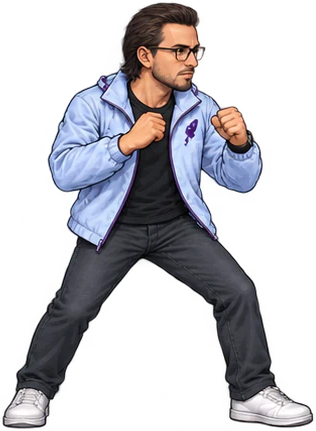
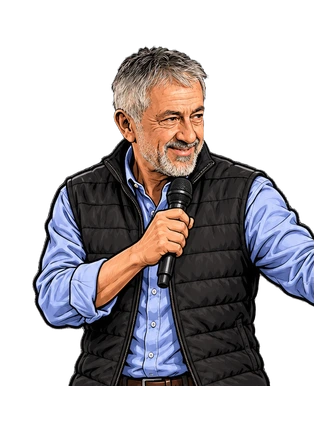
feat(fighters): reemplazar Vicente Zavarce por Armandito con imagen de busto y tecnicas riojanas

diff --git a/shared/finales.ts b/shared/finales.ts
@@ -93,11 +93,11 @@ const entries: readonly Entry[] = [
   ],
   [
     "zavarce",
-    "Pelotón Yummy",
+    "Operativo Municipal",
     "transport",
-    "Siete motos Yummy atraviesan la arena en una formación escalonada. Cada moto tiene su propio contacto, se puede bloquear o esquivar y sigue rodando después del impacto.",
-    "Pelotón Yummy",
-    "¡Pedido en camino!",
+    "Una cuadrilla motorizada atraviesa la arena en formación escalonada. Cada vehículo tiene su propio contacto y se puede bloquear o esquivar.",
+    "Operativo Municipal",
+    "¡Operativo en marcha!",
     "engine",
   ],
   [
